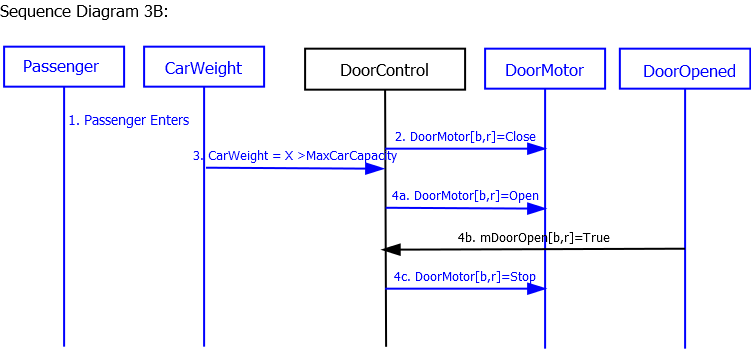
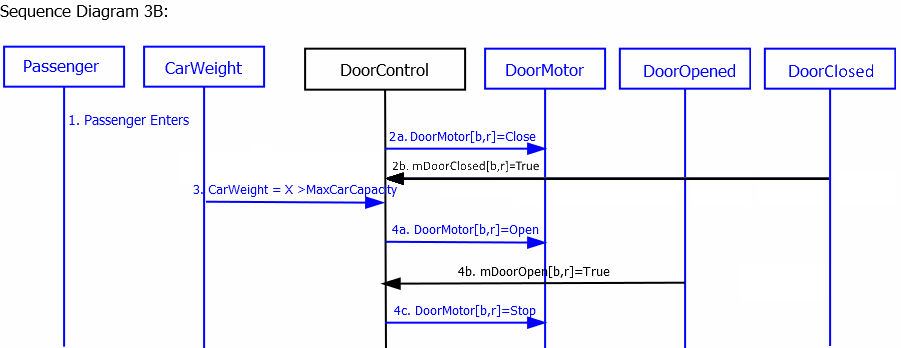
Changed SD 3b

Changed region(s): [[0.0, 0.1149, 1.0, 1.0], [0.0, 0.0, 0.2144, 0.0575], [0.0, 0.1149, 0.0306, 0.1437]]

diff --git a/portfolio/scen_sd/scen_sd.html b/portfolio/scen_sd/scen_sd.html
@@ -305,7 +305,7 @@ passenger is waiting. </li>
 <h3> Scenario: </h3>
 <ol start="1" type="1">
   <li>The Passenger enters</li>  
-  <li>Doors begin to close</li>
+  <li>Doors close</li>
   <li>Car weight exceeds maximum capacity</li>
   <li>Doors begin to open</li>
 </ol>	
